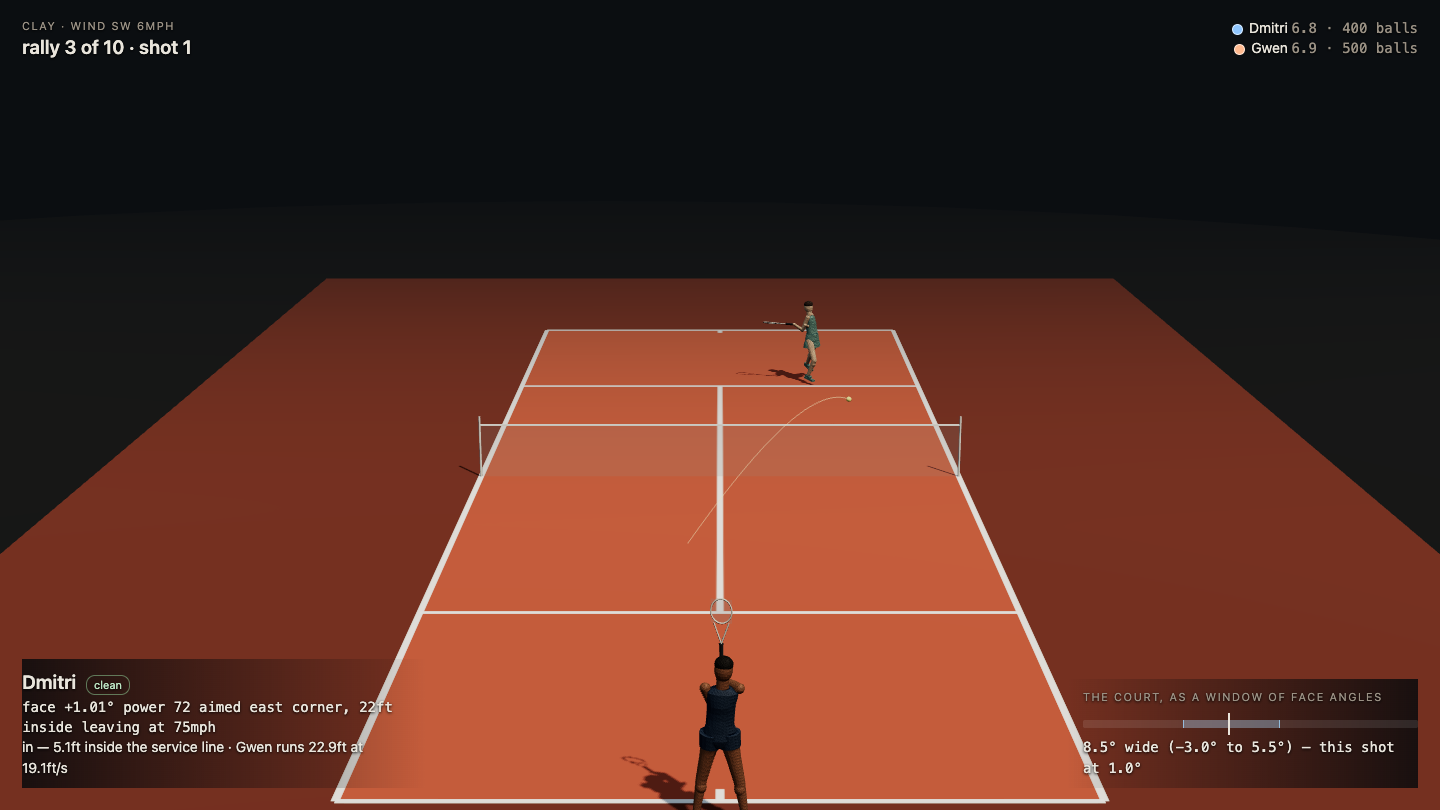
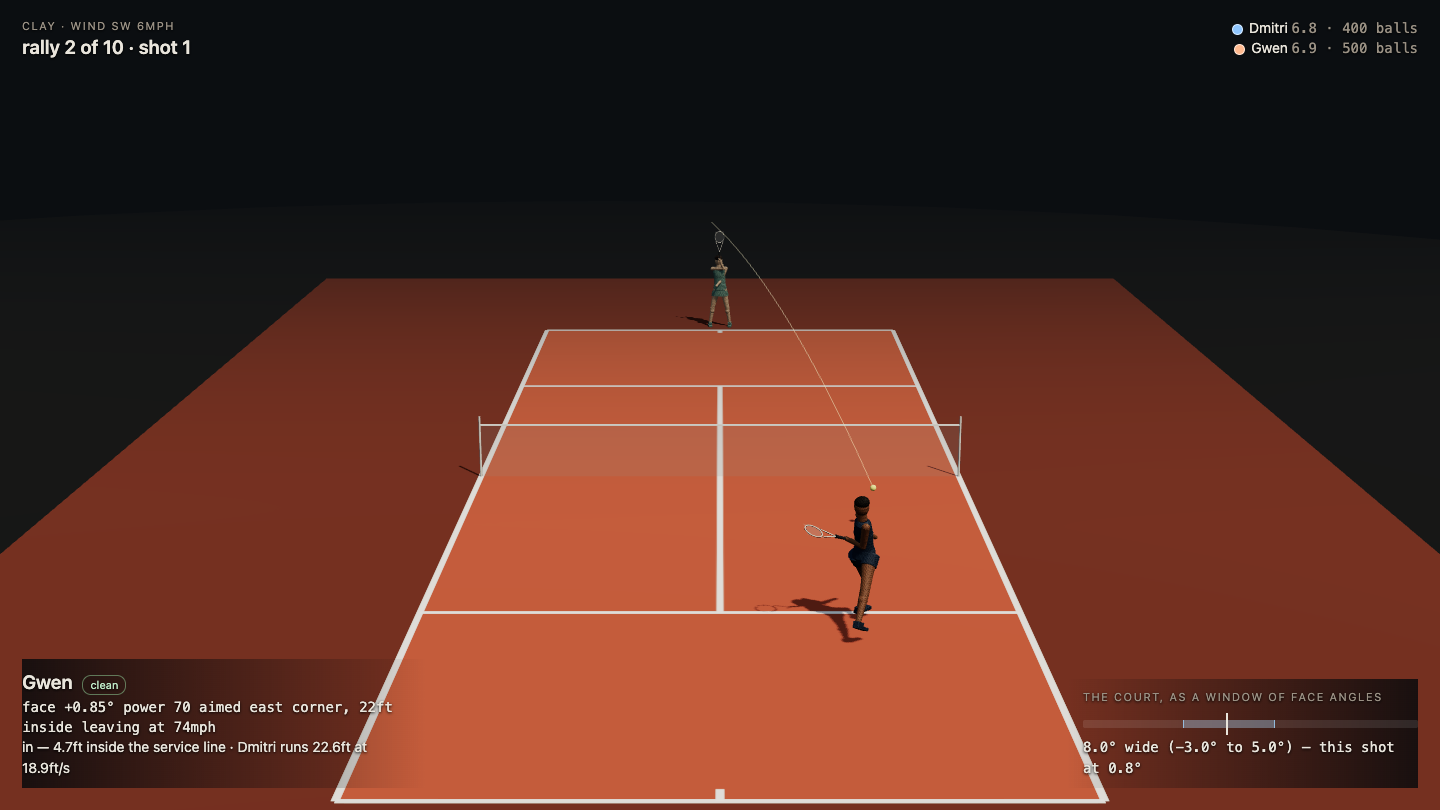
tennis: the prepared racquet sits behind the hip, not behind the player

diff --git a/games/tennis/demo3d.html b/games/tennis/demo3d.html
@@ -886,28 +886,34 @@ function tick(now) {
       const prep = readyAim.clone();
       if (isReceiver) {
         if (back) {
-          // across the chest: both hands on the left, racquet head back and up behind the left shoulder
-          prep.copy(chest).addScaledVector(right, -0.55).addScaledVector(fwd, 0.30);
-          prep.y = chest.y - 0.35;
+          // across the chest: both hands on the left, racquet head back over the left hip
+          prep.copy(chest).addScaledVector(right, -0.50).addScaledVector(fwd, 0.35);
+          prep.y = chest.y - 0.30;
         } else {
-          // open: the hitting hand back and away on the right, racquet head behind the right hip
-          prep.copy(chest).addScaledVector(right, 1.05).addScaledVector(fwd, -0.45);
-          prep.y = chest.y - 0.85;
+          // open: the hitting hand back and away on the right, racquet head behind the right hip. "Too far back"
+          // (founder, 2026-11-11) was the *head* two feet behind the chest: the hand was 0.45ft back and the shaft
+          // carried it another 1.6. A prepared racquet sits behind the hip, not behind the player, and the loop
+          // that takes it properly back is the swing, which happens later and is not this.
+          prep.copy(chest).addScaledVector(right, 0.90).addScaledVector(fwd, -0.15);
+          prep.y = chest.y - 0.72;
         }
         const aim = prep.clone().lerp(readyAim, 1 - windup);
         const lead = back ? "L" : "R";
         const shaft = back
-          ? new THREE.Vector3().addScaledVector(right, -0.70).addScaledVector(fwd, -0.62).normalize()
-          : new THREE.Vector3().addScaledVector(right, 0.28).addScaledVector(fwd, -0.95).normalize();
+          ? new THREE.Vector3().addScaledVector(right, -0.62).addScaledVector(fwd, -0.55).addScaledVector(_up, 0.25).normalize()
+          : new THREE.Vector3().addScaledVector(right, 0.55).addScaledVector(fwd, -0.62).addScaledVector(_up, 0.30).normalize();
         solveArm(rig, aim.clone(), lead);
         if (back) solveArm(rig, aim.clone().addScaledVector(shaft, 0.75), "R");
         placeRacquet(rig, aim.clone().addScaledVector(shaft, 1.70), shaft.clone());
         if (q.has("debug")) {
           const h = (rig.bones["hand" + lead] || rig.root).getWorldPosition(new THREE.Vector3());
           const rel = h.clone().sub(chest);
+          const head = aim.clone().addScaledVector(shaft, 1.70).sub(chest);
           console.log("debug prep", pl.name, back ? "backhand" : "forehand", "windup", windup.toFixed(2),
             "hand at chest+", `side ${rel.dot(right).toFixed(2)}`, `fwd ${rel.dot(fwd).toFixed(2)}`,
-            `up ${rel.y.toFixed(2)}`, `miss ${h.distanceTo(aim).toFixed(2)}`);
+            `up ${rel.y.toFixed(2)}`, "| head at chest+", `side ${head.dot(right).toFixed(2)}`,
+            `fwd ${head.dot(fwd).toFixed(2)}`, `up ${head.y.toFixed(2)}`,
+            `miss ${h.distanceTo(aim).toFixed(2)}`);
         }
       } else {
         placeRacquet(rig, readyAim, _face);

diff --git a/games/tennis/replay3d.html b/games/tennis/replay3d.html
@@ -886,28 +886,34 @@ function tick(now) {
       const prep = readyAim.clone();
       if (isReceiver) {
         if (back) {
-          // across the chest: both hands on the left, racquet head back and up behind the left shoulder
-          prep.copy(chest).addScaledVector(right, -0.55).addScaledVector(fwd, 0.30);
-          prep.y = chest.y - 0.35;
+          // across the chest: both hands on the left, racquet head back over the left hip
+          prep.copy(chest).addScaledVector(right, -0.50).addScaledVector(fwd, 0.35);
+          prep.y = chest.y - 0.30;
         } else {
-          // open: the hitting hand back and away on the right, racquet head behind the right hip
-          prep.copy(chest).addScaledVector(right, 1.05).addScaledVector(fwd, -0.45);
-          prep.y = chest.y - 0.85;
+          // open: the hitting hand back and away on the right, racquet head behind the right hip. "Too far back"
+          // (founder, 2026-11-11) was the *head* two feet behind the chest: the hand was 0.45ft back and the shaft
+          // carried it another 1.6. A prepared racquet sits behind the hip, not behind the player, and the loop
+          // that takes it properly back is the swing, which happens later and is not this.
+          prep.copy(chest).addScaledVector(right, 0.90).addScaledVector(fwd, -0.15);
+          prep.y = chest.y - 0.72;
         }
         const aim = prep.clone().lerp(readyAim, 1 - windup);
         const lead = back ? "L" : "R";
         const shaft = back
-          ? new THREE.Vector3().addScaledVector(right, -0.70).addScaledVector(fwd, -0.62).normalize()
-          : new THREE.Vector3().addScaledVector(right, 0.28).addScaledVector(fwd, -0.95).normalize();
+          ? new THREE.Vector3().addScaledVector(right, -0.62).addScaledVector(fwd, -0.55).addScaledVector(_up, 0.25).normalize()
+          : new THREE.Vector3().addScaledVector(right, 0.55).addScaledVector(fwd, -0.62).addScaledVector(_up, 0.30).normalize();
         solveArm(rig, aim.clone(), lead);
         if (back) solveArm(rig, aim.clone().addScaledVector(shaft, 0.75), "R");
         placeRacquet(rig, aim.clone().addScaledVector(shaft, 1.70), shaft.clone());
         if (q.has("debug")) {
           const h = (rig.bones["hand" + lead] || rig.root).getWorldPosition(new THREE.Vector3());
           const rel = h.clone().sub(chest);
+          const head = aim.clone().addScaledVector(shaft, 1.70).sub(chest);
           console.log("debug prep", pl.name, back ? "backhand" : "forehand", "windup", windup.toFixed(2),
             "hand at chest+", `side ${rel.dot(right).toFixed(2)}`, `fwd ${rel.dot(fwd).toFixed(2)}`,
-            `up ${rel.y.toFixed(2)}`, `miss ${h.distanceTo(aim).toFixed(2)}`);
+            `up ${rel.y.toFixed(2)}`, "| head at chest+", `side ${head.dot(right).toFixed(2)}`,
+            `fwd ${head.dot(fwd).toFixed(2)}`, `up ${head.y.toFixed(2)}`,
+            `miss ${h.distanceTo(aim).toFixed(2)}`);
         }
       } else {
         placeRacquet(rig, readyAim, _face);

diff --git a/games/tennis/MOVEMENT.md b/games/tennis/MOVEMENT.md
@@ -206,10 +206,17 @@ does not.
 prepared position, blended in by the same `windup` number that the rush model produces — a player who has not
 remembered gets the ready pose and nothing else.
 
-- forehand: hand out on the **hitting side**, slightly behind, at hip height — the arm **open**. Measured:
-  chest + 0.90ft right, 0.23ft behind, 0.54ft below the chest.
-- backhand: hand **across the chest** and in front, both hands on the grip, racquet head back over the left
-  shoulder — the arm **crossing**. Measured: chest − 0.76ft (left), 0.62ft in front, level with the chest.
+- forehand: hand out on the **hitting side**, level with the body, at hip height — the arm **open**. Measured:
+  hand at chest + 0.77ft right, level, 0.43ft down; **head** at chest + 1.83ft right, 1.16ft behind, just above
+  the chest.
+- backhand: hand **across the chest** and in front, both hands on the grip, racquet head over the left hip —
+  the arm **crossing**. Measured: hand at chest − 0.72ft, 0.66ft in front, level; **head** 1.94ft to the left,
+  0.42ft behind, 0.61ft up.
+
+The first version put the forehand's racquet head **two feet** behind the chest, and the founder's note was
+"your racquet back is too far back" — a prepared racquet sits behind the hip, not behind the player. The numbers
+above are where it now is; the loop that takes it properly back is the swing, which happens later and is not
+this.
 
 Those measured offsets are the check, not the intent: `?debug` prints them, and the arm solve reports 0.00ft of
 error against its own target, so the picture shows what the numbers say.
